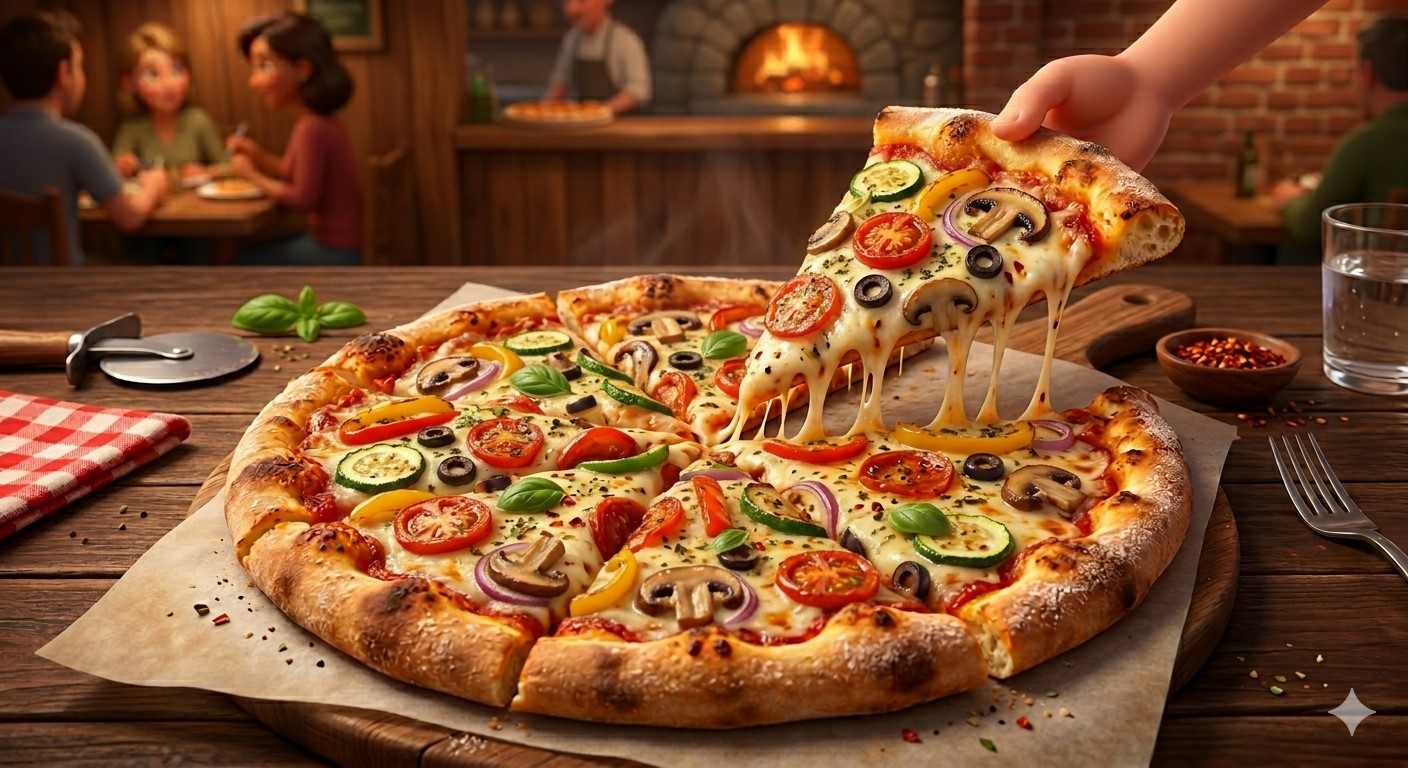
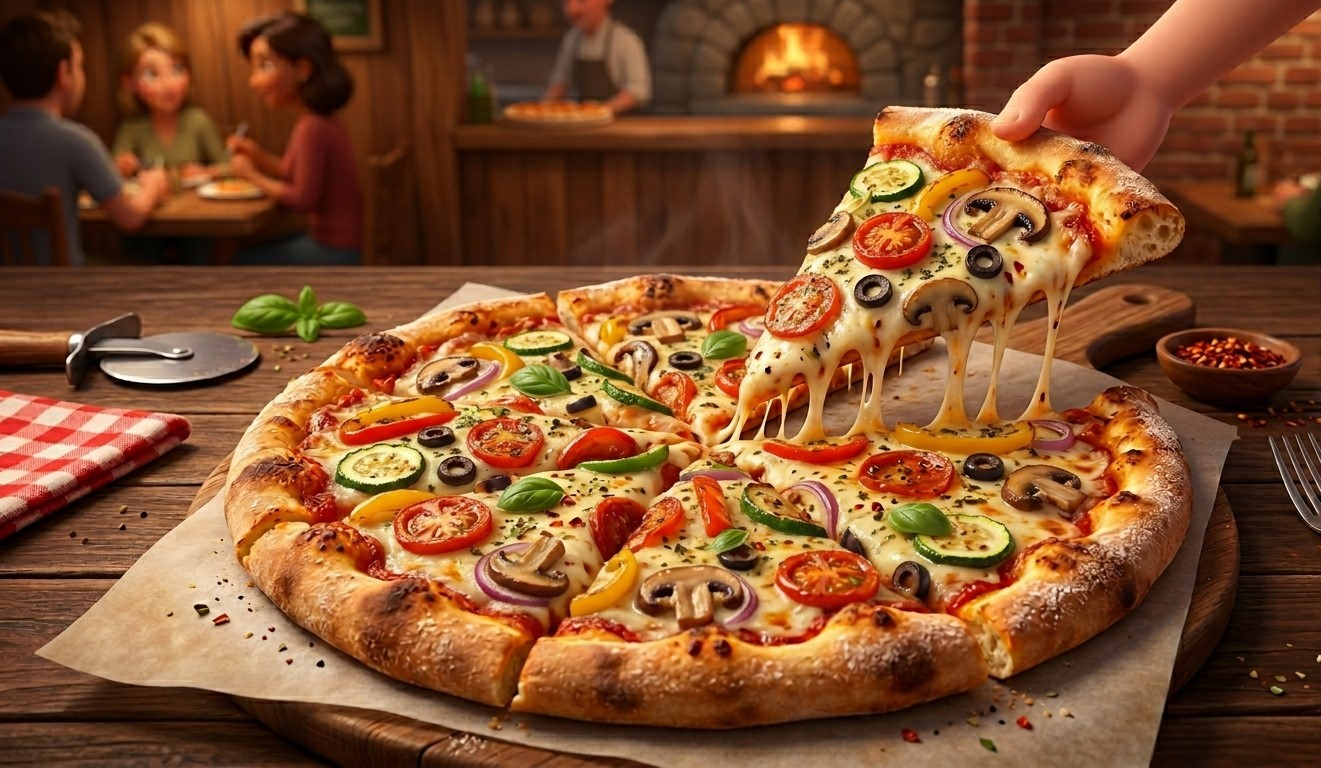
lo que hice

diff --git a/app/Home.tsx b/app/Home.tsx
@@ -1,5 +1,6 @@
-import React from 'react';
+import { useRef, useState } from 'react';
 import {
+    Animated,
     Image,
     ScrollView,
     Text,
@@ -7,12 +8,13 @@ import {
     View,
     useWindowDimensions,
 } from 'react-native';
+import Cart from '../app/cart';
 import styles from '../src/styles/homeStyles';
 
 const pizzas = [
     {
         id: 1,
-        nombre: 'Pizza Pepperoni',
+        nombre: 'Pepperoni',
         imagen: require('../assets/homeImg/pepperoni.jpg'),
     },
     {
@@ -25,26 +27,105 @@ const pizzas = [
         nombre: 'Vegetariana',
         imagen: require('../assets/homeImg/vegetariana.jpg'),
     },
+    {
+        id: 4,
+        nombre: 'Arma tu pizza',
+        imagen: require('../assets/homeImg/armatupizza.jpg'),
+    },
 ];
+
+const bebidas = [
+    {
+        id: 1,
+        nombre: 'Coca-Cola',
+        imagen: require('../assets/homeImg/cocacola.jpg'),
+    },
+    {
+        id: 2,
+        nombre: 'Jugo de naranja',
+        imagen: require('../assets/homeImg/naranja.jpg'),
+    },
+    {
+        id: 3,
+        nombre: 'Limonada',
+        imagen: require('../assets/homeImg/limonada.jpg'),
+    },
+];
+
 
 export default function Home() {
     const { width } = useWindowDimensions();
+    const [categoria, setCategoria] = useState('pizzas');
+    const [cartVisible, setCartVisible] = useState(false);
+    const slideAnim = useRef(new Animated.Value(300)).current;
+    const fadeAnim = useRef(new Animated.Value(1)).current;
+    const [menuVisible, setMenuVisible] = useState(false);
+    const slideMenu = useRef(new Animated.Value(-300)).current;
 
     const isTablet = width >= 768;
     const isDesktop = width >= 1024;
+    const toggleMenu = () => {
+        if (menuVisible) {
+            Animated.timing(slideMenu, {
+                toValue: -300,
+                duration: 300,
+                useNativeDriver: true,
+            }).start(() => setMenuVisible(false));
+        } else {
+            setMenuVisible(true);
+            Animated.timing(slideMenu, {
+                toValue: 0,
+                duration: 300,
+                useNativeDriver: true,
+            }).start();
+        }
+    };
+    const toggleCart = () => {
+        if (cartVisible) {
+            Animated.timing(slideAnim, {
+                toValue: 300,
+                duration: 300,
+                useNativeDriver: true,
+            }).start(() => setCartVisible(false));
+        } else {
+            setCartVisible(true);
+            Animated.timing(slideAnim, {
+                toValue: 0,
+                duration: 300,
+                useNativeDriver: true,
+            }).start();
+        }
+    };
+    // Animación al cambiar categoría
+    const cambiarCategoria = (nuevaCategoria: string) => {
+        Animated.timing(fadeAnim, {
+            toValue: 0,
+            duration: 200,
+            useNativeDriver: true,
+        }).start(() => {
+            setCategoria(nuevaCategoria);
+
+            Animated.timing(fadeAnim, {
+                toValue: 1,
+                duration: 200,
+                useNativeDriver: true,
+            }).start();
+        });
+    };
 
     const renderCategorias = () => {
         const botones = (
             <>
                 <TouchableOpacity
                     style={[
-                        styles.tabActivo,
+                        categoria === 'pizzas' ? styles.tabActivo : styles.tab,
                         isDesktop && styles.tabDesktop,
                     ]}
+                    onPress={() => cambiarCategoria('pizzas')}
                 >
                     <Text
                         style={[
-                            styles.tabTextoActivo,
+                            categoria === 'pizzas' ? styles.tabTextoActivo : styles.tabTexto,
                             isDesktop && styles.tabTextoDesktop,
                         ]}
                     >
@@ -54,29 +135,14 @@ export default function Home() {
 
                 <TouchableOpacity
                     style={[
-                        styles.tab,
+                        categoria === 'bebidas' ? styles.tabActivo : styles.tab,
                         isDesktop && styles.tabDesktop,
                     ]}
+                    onPress={() => cambiarCategoria('bebidas')}
                 >
                     <Text
                         style={[
-                            styles.tabTexto,
-                            isDesktop && styles.tabTextoDesktop,
-                        ]}
-                    >
-                        Pastas
-                    </Text>
-                </TouchableOpacity>
-
-                <TouchableOpacity
-                    style={[
-                        styles.tab,
-                        isDesktop && styles.tabDesktop,
-                    ]}
-                >
-                    <Text
-                        style={[
-                            styles.tabTexto,
+                            categoria === 'bebidas' ? styles.tabTextoActivo : styles.tabTexto,
                             isDesktop && styles.tabTextoDesktop,
                         ]}
                     >
@@ -105,33 +171,41 @@ export default function Home() {
         <View style={styles.container}>
             <View style={styles.wrapper}>
 
-                {/* Header */}
-                <Text style={styles.title}>Menú Principal</Text>
-
-                {/* Categorías */}
+                <Text style={styles.title}>Pizzería</Text>
+                <Text style={styles.title}>" Bella "</Text>
                 {renderCategorias()}
 
-                {/* Lista */}
-                <ScrollView
-                    showsVerticalScrollIndicator={true} // 🔥 barra vertical visible
+                <Animated.ScrollView
+                    style={{
+                        opacity: fadeAnim,
+                        transform: [
+                            {
+                                translateY: fadeAnim.interpolate({
+                                    inputRange: [0, 1],
+                                    outputRange: [20, 0],
+                                }),
+                            },
+                        ],
+                    }}
+                    showsVerticalScrollIndicator={true}
                     contentContainerStyle={[
                         styles.lista,
                         isTablet && styles.listaDesktop,
                     ]}
                 >
-                    {pizzas.map((pizza) => (
+                    {(categoria === 'pizzas' ? pizzas : bebidas).map((item) => (
                         <View
-                            key={pizza.id}
+                            key={item.id}
                             style={[
                                 styles.card,
                                 isDesktop && styles.cardDesktop,
                                 isTablet && !isDesktop && styles.cardTablet,
                             ]}
                         >
-                            <Image source={pizza.imagen} style={styles.imagen} />
+                            <Image source={item.imagen} style={styles.imagen} />
 
                             <View style={styles.info}>
-                                <Text style={styles.nombre}>{pizza.nombre}</Text>
+                                <Text style={styles.nombre}>{item.nombre}</Text>
 
                                 <TouchableOpacity
                                     style={[
@@ -151,9 +225,53 @@ export default function Home() {
                             </View>
                         </View>
                     ))}
-                </ScrollView>
+                </Animated.ScrollView>
 
             </View>
+            <TouchableOpacity
+                style={styles.cartButton}
+                onPress={() => toggleCart()}
+            >
+                <Text style={{ color: '#FFF', fontWeight: 'bold' }}>🛒</Text>
+            </TouchableOpacity>
+            <TouchableOpacity
+                style={styles.menuButton}
+                onPress={toggleMenu}
+            >
+                <Text style={{ color: '#FFF', fontSize: 20 }}>☰</Text>
+            </TouchableOpacity>
+            {cartVisible && (
+                <Animated.View
+                    style={[
+                        styles.cartPanel,
+                        { transform: [{ translateX: slideAnim }] },
+                    ]}
+                >
+                    <Cart />
+                </Animated.View>
+            )}
+            {menuVisible && (
+                <Animated.View
+                    style={[
+                        styles.menuPanel,
+                        { transform: [{ translateX: slideMenu }] },
+                    ]}
+                >
+                    <Text style={styles.menuTitle}>Menú</Text>
+
+                    <TouchableOpacity>
+                        <Text style={styles.menuItem}>Acerca de</Text>
+                    </TouchableOpacity>
+
+                    <TouchableOpacity>
+                        <Text style={styles.menuItem}>Contacto</Text>
+                    </TouchableOpacity>
+                    <TouchableOpacity>
+                        <Text style={styles.menuItem}>Cerrar Sesion</Text>
+                    </TouchableOpacity>
+                </Animated.View>
+            )}
+
         </View>
     );
 }

diff --git a/src/styles/homeStyles.ts b/src/styles/homeStyles.ts
@@ -4,7 +4,7 @@ const styles = StyleSheet.create({
     container: {
         flex: 1,
         backgroundColor: '#1E1E1E',
-        paddingTop: 50,
+        paddingTop: 115,
         paddingHorizontal: 15,
         alignItems: 'center',
     },
@@ -15,19 +15,21 @@ const styles = StyleSheet.create({
     },
 
     title: {
-        fontSize: 24,
-        fontWeight: 'bold',
-        color: '#FFF',
+        color: "#fff",
+        fontSize: 45,
+        textAlign: "center",
         marginBottom: 20,
-        textAlign: 'center',
+        fontWeight: "bold",
+        fontStyle: "italic",
+        letterSpacing: 3,
     },
 
     categoriasScroll: {
         flexDirection: 'row',
-        justifyContent: 'center', 
+        justifyContent: 'center',
         alignItems: 'center',
         paddingBottom: 10,
-        flexGrow: 1, 
+        flexGrow: 1,
     },
 
     categoriasDesktop: {
@@ -73,7 +75,7 @@ const styles = StyleSheet.create({
         fontSize: 18,
     },
 
-  
+
 
     lista: {
         paddingBottom: 20,
@@ -144,6 +146,66 @@ const styles = StyleSheet.create({
 
     botonTextoDesktop: {
         fontSize: 16,
+    },
+    cartButton: {
+        position: 'absolute',
+        top: 60,
+        right: 20,
+        backgroundColor: '#E67E22',
+        padding: 15,
+        borderRadius: 50,
+        zIndex: 10,
+    },
+
+    cartPanel: {
+        position: 'absolute',
+        right: 0,
+        top: 0,
+        bottom: 0,
+        width: 280,
+        backgroundColor: '#2C2C2C',
+        padding: 20,
+        zIndex: 9,
+    },
+
+    cartTitle: {
+        color: '#FFF',
+        fontSize: 20,
+        fontWeight: 'bold',
+        marginBottom: 15,
+    },
+    menuButton: {
+        position: 'absolute',
+        top: 60,
+        left: 20,
+        backgroundColor: '#E67E22',
+        padding: 15,
+        borderRadius: 50,
+        zIndex: 10,
+    },
+
+    menuPanel: {
+        position: 'absolute',
+        left: 0,
+        top: 0,
+        bottom: 0,
+        width: 260,
+        backgroundColor: '#2C2C2C',
+        padding: 20,
+        zIndex: 9,
+    },
+
+    menuTitle: {
+        color: '#FFF',
+        fontSize: 22,
+        fontWeight: 'bold',
+        marginBottom: 20,
+    },
+
+    menuItem: {
+        color: '#FFF',
+        fontSize: 16,
+        marginBottom: 15,
     },
 });
 

diff --git a/src/styles/loginStyles.ts b/src/styles/loginStyles.ts
@@ -27,6 +27,7 @@ const styles = StyleSheet.create({
         marginBottom: 20,
         fontWeight: "bold",
         fontStyle: "italic",
+        letterSpacing: 3,
     },
 
     card: {

diff --git a/app/index.tsx b/app/index.tsx
@@ -1,5 +1,5 @@
 import { Redirect } from 'expo-router';
 
 export default function Index() {
-  return <Redirect href="/cart" />;
+  return <Redirect href="/home" />;
 }
